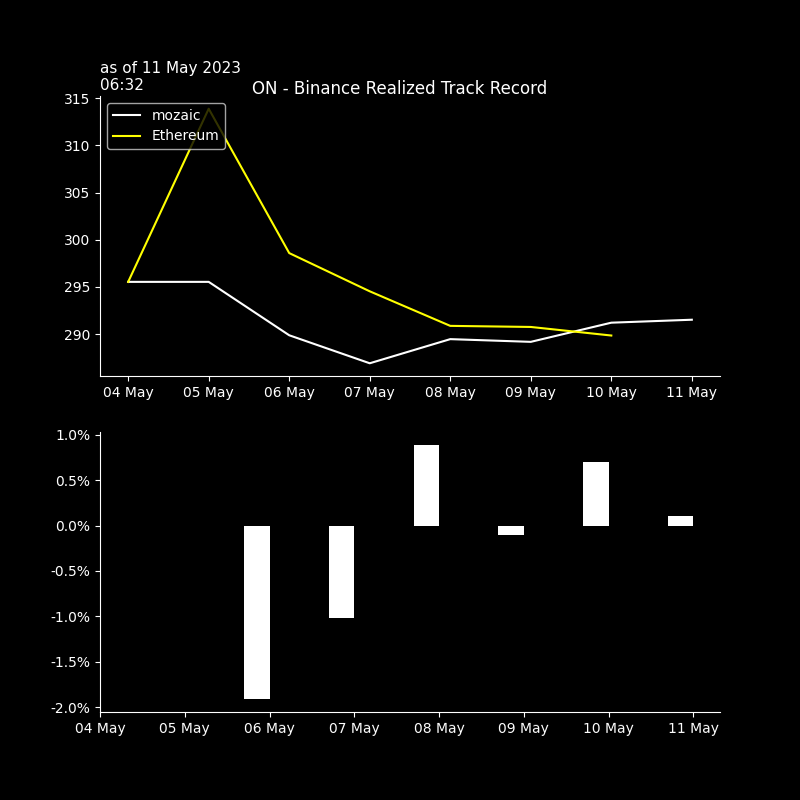
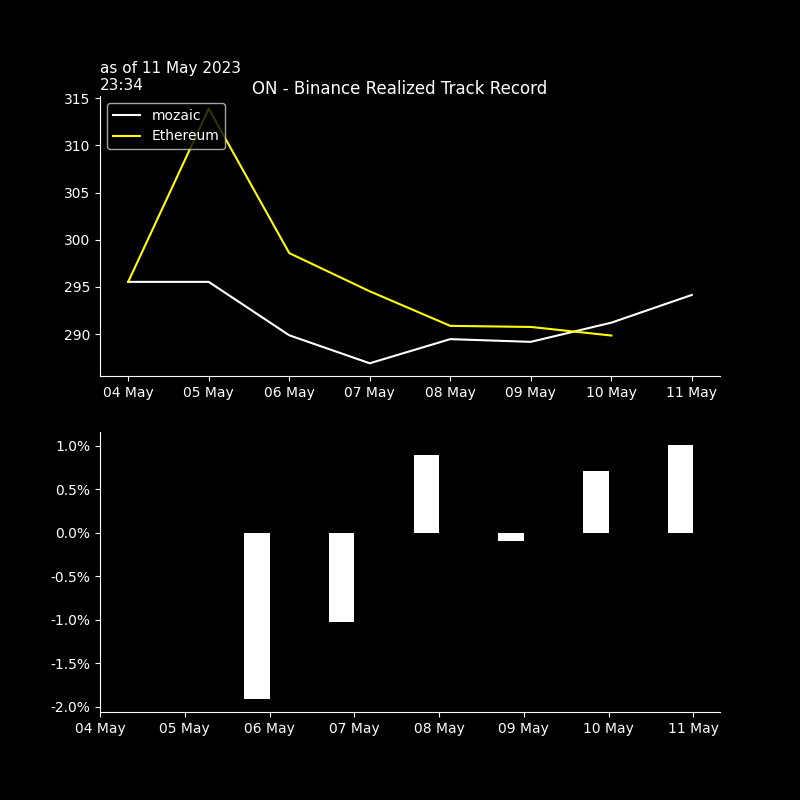
seb_commit

diff --git a/crypto/graphs/bt_trades_book.htmltrade_trades_book.html b/crypto/graphs/bt_trades_book.htmltrade_trades_book.html
@@ -37,55 +37,55 @@
   </thead>
   <tbody>
     <tr>
-      <th>BTCUSDT</th>
-      <td>26920.9000</td>
-      <td>2023-05-11 18:33:06</td>
-      <td>0.005</td>
-      <td>$134.6</td>
-      <td>$0.03</td>
+      <th>XRPUSDT</th>
+      <td>0.42</td>
+      <td>2023-05-11 22:33:59</td>
+      <td>-439.700</td>
+      <td>$-184.7</td>
+      <td>$0.04</td>
       <td>2.0</td>
-      <td>0.0</td>
-      <td>26888.75000</td>
-      <td>2023-05-11 19:31</td>
-      <td>-0.2</td>
-      <td>-12.0</td>
-      <td>26927.9</td>
-      <td>0.0</td>
-      <td>3.0</td>
+      <td>2.1</td>
+      <td>0.42025</td>
+      <td>2023-05-11 23:31</td>
+      <td>-0.1</td>
+      <td>-6.0</td>
+      <td>.4201</td>
+      <td>-0.0</td>
+      <td>-2.0</td>
     </tr>
     <tr>
-      <th>XRPUSDT</th>
-      <td>0.4139</td>
-      <td>2023-05-11 18:33:49</td>
-      <td>352.900</td>
-      <td>$146.1</td>
+      <th>BTCUSDT</th>
+      <td>26980.00</td>
+      <td>2023-05-11 22:33:13</td>
+      <td>-0.006</td>
+      <td>$-161.9</td>
       <td>$0.03</td>
       <td>2.0</td>
-      <td>0.0</td>
-      <td>0.41265</td>
-      <td>2023-05-11 19:31</td>
-      <td>-0.4</td>
-      <td>-30.0</td>
-      <td>.414</td>
-      <td>0.0</td>
-      <td>3.0</td>
+      <td>0.3</td>
+      <td>26996.75000</td>
+      <td>2023-05-11 23:31</td>
+      <td>-0.1</td>
+      <td>-6.0</td>
+      <td>26982.5</td>
+      <td>-0.0</td>
+      <td>-1.0</td>
     </tr>
     <tr>
       <th>ETHUSDT</th>
-      <td>1787.7300</td>
-      <td>2023-05-11 18:33:22</td>
-      <td>0.082</td>
-      <td>$146.6</td>
+      <td>1795.76</td>
+      <td>2023-05-11 22:33:13</td>
+      <td>-0.082</td>
+      <td>$-147.3</td>
       <td>$0.03</td>
       <td>2.0</td>
-      <td>0.0</td>
-      <td>1782.74500</td>
-      <td>2023-05-11 19:31</td>
-      <td>-0.4</td>
-      <td>-28.0</td>
-      <td>1786.7</td>
+      <td>0.7</td>
+      <td>1796.97500</td>
+      <td>2023-05-11 23:31</td>
       <td>-0.1</td>
-      <td>-5.0</td>
+      <td>-7.0</td>
+      <td>1796.18</td>
+      <td>-0.0</td>
+      <td>-2.0</td>
     </tr>
   </tbody>
 </table>

diff --git a/crypto/graphs/bt_trades_pnlD_recap.htmltrade_trades_pnlD_recap.html b/crypto/graphs/bt_trades_pnlD_recap.htmltrade_trades_pnlD_recap.html
@@ -1,7 +1,7 @@
 <table border="1" class="dataframe">
   <thead>
     <tr style="text-align: right;">
-      <th>11 May 19:33</th>
+      <th>11 May 23:34</th>
       <th>realizedPnl</th>
       <th>PnLvsArrival</th>
       <th>PnLvsLast</th>
@@ -10,21 +10,21 @@
   <tbody>
     <tr>
       <th>in$</th>
-      <td>0.0</td>
-      <td>-1.0</td>
-      <td>0.0</td>
+      <td>3.1</td>
+      <td>-0.3</td>
+      <td>-0.1</td>
     </tr>
     <tr>
-      <th>in bp 427 traded</th>
-      <td>0 bp</td>
-      <td>-24 bp</td>
-      <td>0 bp</td>
+      <th>in bp 493 traded</th>
+      <td>63 bp</td>
+      <td>-6 bp</td>
+      <td>-2 bp</td>
     </tr>
     <tr>
-      <th>in bp 291 AUMs</th>
-      <td>0 bp</td>
-      <td>-35 bp</td>
-      <td>0 bp</td>
+      <th>in bp 294 AUMs</th>
+      <td>106 bp</td>
+      <td>-11 bp</td>
+      <td>-3 bp</td>
     </tr>
   </tbody>
 </table>

diff --git a/crypto/graphs/bt_trades_recap.htmltrade_trades_recap.html b/crypto/graphs/bt_trades_recap.htmltrade_trades_recap.html
@@ -9,32 +9,32 @@
   <tbody>
     <tr>
       <th>as of</th>
-      <td>11May 18:33&gt;&gt;18:33</td>
+      <td>11May 22:33&gt;&gt;22:33</td>
       <td>#trades: 3</td>
     </tr>
     <tr>
       <th>trade net</th>
-      <td>+427.0</td>
-      <td>+146.6%</td>
+      <td>-494.0</td>
+      <td>-167.7%</td>
     </tr>
     <tr>
       <th>trade gross</th>
-      <td>+427.0</td>
-      <td>+146.6%</td>
+      <td>+494.0</td>
+      <td>+167.7%</td>
     </tr>
     <tr>
       <th>BUY</th>
-      <td>+427.0</td>
-      <td>+146.6%</td>
-    </tr>
-    <tr>
-      <th>SELL</th>
       <td>+0.0</td>
       <td>+0.0%</td>
     </tr>
     <tr>
+      <th>SELL</th>
+      <td>-494.0</td>
+      <td>-167.7%</td>
+    </tr>
+    <tr>
       <th>fees</th>
-      <td>$ 0.085</td>
+      <td>$ 0.099</td>
       <td>2.0bp</td>
     </tr>
   </tbody>
